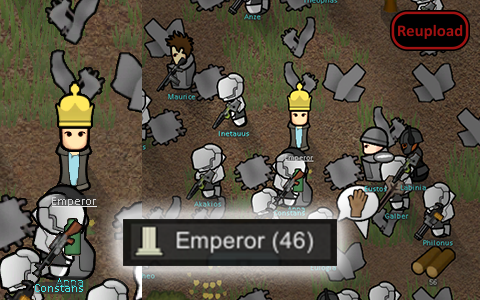
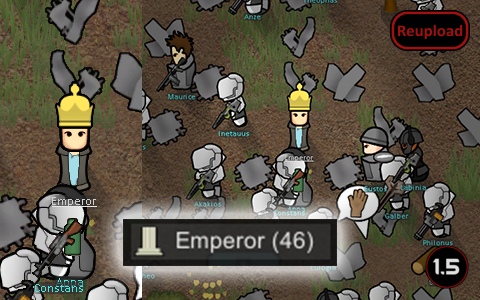
Mod updated for 1.5 and passed autotests

Changed region(s): [[0.875, 0.81, 1.0, 0.96]]

diff --git a/README.md b/README.md
@@ -41,11 +41,13 @@ with permission
 
 -  See if the the error persists if you just have this mod and its requirements active.
 -  If not, try adding your other mods until it happens again.
--  Post your error-log using https://steamcommunity.com/workshop/filedetails/?id=818773962]HugsLib and command Ctrl+F12
+-  Post your error-log using https://steamcommunity.com/workshop/filedetails/?id=818773962]HugsLib or the standalone https://steamcommunity.com/sharedfiles/filedetails/?id=2873415404]Uploader and command Ctrl+F12
 -  For best support, please use the Discord-channel for error-reporting.
 -  Do not report errors by making a discussion-thread, I get no notification of that.
 -  If you have the solution for a problem, please post it to the GitHub repository.
+-  Use https://github.com/RimSort/RimSort/releases/latest]RimSort to sort your mods
 
 
 
+https://steamcommunity.com/sharedfiles/filedetails/changelog/2457241847]![Image](https://img.shields.io/github/v/release/emipa606/UnlockEmperor?label=latest%20version&style=plastic&color=9f1111&labelColor=black)
 
